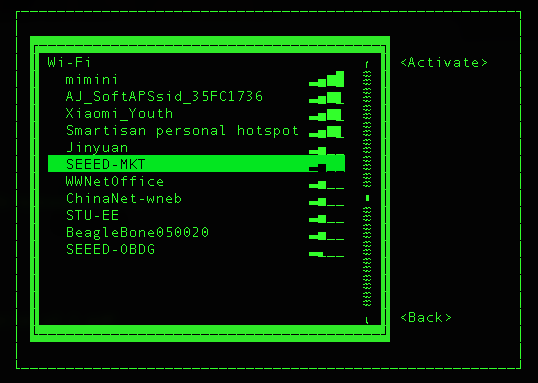
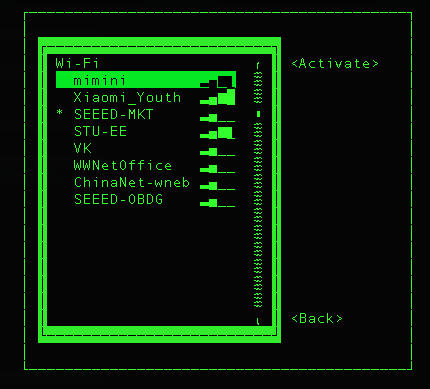
update

Changed region(s): [[0.0302, 0.0287, 0.9674, 0.9765]]

diff --git a/docs/ReSpeaker_Core_V2/getting_started.md b/docs/ReSpeaker_Core_V2/getting_started.md
@@ -19,47 +19,45 @@ This guide will show you how to get started with ReSpeaker Core V2.
 Similar to Raspberry, ReSpeaker Core V2 needs you to install our image to an SD card to get it up and running. Steps for installing our image:
 
 
-1. Download our latest image zip file `respeaker-v2-stretch-xxxxxxxx.7z` at [百度云盘](https://pan.baidu.com/s/1c2piKW4) or [Google Drive](https://drive.google.com/open?id=0B7R2TH-ioqAKQjBfZGp0M3VaVjQ)
+1. Download our latest image zip files: `respeaker-debian-9-lxqt-sd-********-4gb.img.xz` or `respeaker-debian-9-iot-sd-********-4gb.img.xz` at [百度云盘](https://pan.baidu.com/s/1c2piKW4) or [Google Drive](https://drive.google.com/open?id=0B7R2TH-ioqAKQjBfZGp0M3VaVjQ). The `lxqt` version comes with Debian desktop and the `iot` version does not. If you are new to ReSpeaker Core V2, `lxqt` version is recommended.
 
-2. Unzip the `.7z` file to get a `.img` file. You can unzip `.7z` file with the following tools for different platforms:
-    - Windows: [7-Zip](http://www.7-zip.org/)
-    - Linux: [7za](http://www.thegeekstuff.com/2010/04/7z-7zip-7za-file-compression)
-    - Mac: [The
-     Unarchiver](https://theunarchiver.com/)
+2. Burn the `*.img.xz` file directly to SD card with [Etcher](https://etcher.io/), or unzip the `*.img.xz` file to a `*.img` file, then burn it to SD card with other image writing tools.
 
-3. Burn the `.img` file to SD card with [Etcher](https://etcher.io/) or other image writing tools.
+3. After burning SD card, put the SD card in ReSpeaker Core V2. Power the board at `PWR_IN` micro usb port，note that **Try not to hot-plugging SD card**.
 
-4. After burning SD card, put the SD card in ReSpeaker Core V2. Power the board at `PWR_IN` micro usb port，note that **Try not to hot swap SD card**.
+4. When powering, ReSpeaker Core V2 boot from the SD card(not eMMC), and you can see USER1 and USER2 LEDs light up. USER1 is typically configured at boot to blink in a heartbeat pattern and USER2 is typically configured at boot to light during SD card accesses. Now, you should go to the next part: [Serial Console](#serial-console).
 
-5. When powering, USER1 and USER2 LEDs light up. USER1 is typically configured at boot to blink in a heartbeat pattern and USER2 is typically configured at boot to light during SD (microSD) card accesses
+5. If you want to flash the image to eMMC, please see [here](#flash-emmc).
 
 ![](/img/hardware.jpg)
 
 
 ### Serial Console
 
-You can connect to the Serial Console with Uart port on board:
+You can connect to the Serial Console with Uart port on board (if you can't find the Uart port, please see the picture above):
 
-1. Connect Uart port and your PC/Max with an USB To TTL Adapter. Note that the voltage of RX/TX are 3.3V.
+1. Connect Uart port and your PC/Mac with an [USB To TTL Adapter](https://www.seeedstudio.com/USB-To-Uart-5V%26amp%3B3V3-p-1832.html). Note that the voltage of RX/TX are 3.3V. If you don't have an USB To TTL Adapter, please see **step 4**.
 
 2. Use the following Serial debugging tools with 115200 baud:
     - Windows: usb [PUTTY](https://www.chiark.greenend.org.uk/~sgtatham/putty/latest.html), select `Serial` protocol, fill in the correct COM port of ReSpeaker Core V2, 115200 baud, 8Bits, Parity None, Stop Bits 1, Flow Control None
     - Linux: Depend on your USB To TTL Adapter, it could be `screen /dev/ttyACM0(,1, and so on) 115200` or `screen /dev/ttyUSB0(,1, and so on) 115200`
     - Mac: Depend on your USB To TTL Adapter, it could be `screen /dev/cu.usbserial1412(,1422, and so on) 115200` or `screen /dev/cu.usbmodem1412(,1422, and so on) 115200`
-    
-If you do not have a USB to TTL Adapter, you may also use an Arduino. If using an Arduino, connect one end of a jumper wire to the 'RESET' pin on the Arduino and the other end to the 'GND' pin on the Arduino. This will bypass your Arduino's ATMEGA MCU and turn your Arduino into a USB to TTL adapter, see video tutorial here https://www.youtube.com/watch?v=qqSLwK1DP8Q. Now connect the GND pin on the Arduino to the GND pin on the Uart port of the Respeaker. Connect the Rx pin on the Arduino to the Rx pin on the Uart port of the Respeaker. Connect the Tx pin on the Arduino to the Tx pin on the Uart port of the Respeaker. And lastly, connect the Arduino to your PC/Mac via the Arduino's USB cable. Now check that your Mac or Linux PC finds your Arduino by typing this command:
 
+3. The login user name is `respeaker`, and password is `respeaker` too.
+![v2_login.png](/img/v2_login.png)
+
+4. If you do not have a USB to TTL Adapter, you may also use an Arduino. If using an Arduino, connect one end of a jumper wire to the *RESET* pin on the Arduino and the other end to the *GND* pin on the Arduino. This will bypass your Arduino's ATMEGA MCU and turn your Arduino into a USB to TTL adapter, see video tutorial [here](https://www.youtube.com/watch?v=qqSLwK1DP8Q). Now connect the *GND* pin on the Arduino to the *GND* pin on the *Uart port* of the Respeaker. Connect the *Rx* pin on the Arduino to the *Rx* pin on the Uart port of the Respeaker. Connect the *Tx* pin on the Arduino to the *Tx* pin on the Uart port of the Respeaker. And lastly, connect the Arduino to your PC/Mac via the Arduino's USB cable. Now check that your Mac or Linux PC finds your Arduino by typing this command:
+```
 ls /dev/cu.usb* (Mac)
 ls /dev/ttyACM* (Linux)
-
+```
 You should get back something like:
-
+```
 /dev/cu.usbmodem14XX where XX will vary depending on which USB port you used (on Mac)
 /dev/ttyACMX where X will vary depending on which USB port you used  (on Linux)
-
+```
 Now use this port with the commands above to connect to your Respeaker over this serial connection. And note this is a one time procedure as you'll next setup your Respeaker for Wi-Fi connectivity and then connect via ssh or VNC going forward.
 
-3. The default user is `root`, you can switch to `respeaker` user with `su respeaker` command.
 
 ### Network Setting Up
 
@@ -67,13 +65,13 @@ Now use this port with the commands above to connect to your Respeaker over this
 
 Configure network with **Network Manager** tool:
 ```
-root@v2:/home/respeaker# nmtui              # respeaker user needs sudo
+respeaker@v2:~$ sudo nmtui              # respeaker user needs sudo
 ```
 Then you could see a config page like this, select `Activate a connection` and press `Enter`.
 
 ![](/img/nmtui1-1.png)
 
-Select your Wi-Fi for ReSpeaker V2, press `Enter` and type your Wi-Fi password and `Enter` again. When you see `succeeded`, it means that the board has connected to Wi-Fi already. Tap `Esc` twice to leave the config page.
+Select your Wi-Fi for ReSpeaker V2, press `Enter` and type your Wi-Fi password and `Enter` again. When you see a `*` mark, it means that the board has connected to Wi-Fi already. Tap `Esc` twice to leave the config page.
 
 ![](/img/nmtui1-2.png)
 
@@ -85,7 +83,7 @@ root@v2:/home/respeaker# ip address
     link/loopback 00:00:00:00:00:00 brd 00:00:00:00:00:00
     inet 127.0.0.1/8 scope host lo
        valid_lft forever preferred_lft forever
-    inet6 ::1/128 scope host 
+    inet6 ::1/128 scope host
        valid_lft forever preferred_lft forever
 2: sit0@NONE: <NOARP> mtu 1480 qdisc noop state DOWN group default qlen 1
     link/sit 0.0.0.0 brd 0.0.0.0
@@ -93,9 +91,9 @@ root@v2:/home/respeaker# ip address
     link/ether e0:76:d0:37:38:6d brd ff:ff:ff:ff:ff:ff
     inet 192.168.7.108/24 brd 192.168.7.255 scope global dynamic wlan0
        valid_lft 604332sec preferred_lft 604332sec
-    inet6 2601:647:4680:ebf0:ec0a:5965:e710:f329/64 scope global noprefixroute dynamic 
+    inet6 2601:647:4680:ebf0:ec0a:5965:e710:f329/64 scope global noprefixroute dynamic
        valid_lft 345598sec preferred_lft 345598sec
-    inet6 fe80::64de:cac8:65ef:aac8/64 scope link 
+    inet6 fe80::64de:cac8:65ef:aac8/64 scope link
        valid_lft forever preferred_lft forever
 
 ```
@@ -162,28 +160,6 @@ cp pulse/client.conf ~/.config/pulse/
 pulseaudio -k && pulseaudio -D                  # restart pulseaudio, don't run it as root user
 ```
 
-<!-- #### 方式2
-修复一个PulseAudio配置问题，修改`/etc/pulse/default.pa`，禁用`module-udev-detect`和`module-detect`，静态加载`alsa sink`和`source`，修改之后用respeaker用户重启pulseaudio，运行`pulseaudio -k || pulseaudio -D`
-```
-### Load audio drivers statically                                                                                                       
-### (it's probably better to not load these drivers manually, but instead
-### use module-udev-detect -- see below -- for doing this automatically)
-load-module module-alsa-sink device=hw:0,2   
-load-module module-alsa-source device=hw:0,0            
-#load-module module-oss device="/dev/dsp" sink_name=output source_name=input  
-#load-module module-oss-mmap device="/dev/dsp" sink_name=output source_name=input
-#load-module module-null-sink           
-#load-module module-pipe-sink           
-
-### Automatically load driver modules depending on the hardware available      
-#.ifexists module-udev-detect.so        
-#load-module module-udev-detect   
-#.else                  
-### Use the static hardware detection module (for systems that lack udev support)    
-#load-module module-detect    
-#.endif
-``` -->
-
 ### Virtual Environment
 
 ```
@@ -225,51 +201,14 @@ arecord -Dhw:0,0 -f S16_LE -r 16000 -c 8 hello.wav
 
 ### Flash eMMC
 
-There is another way to boot ReSpeaker Core V2, without SD card. You could  directly flash image files to eMMC with your PC or Mac:
+There is another way to boot ReSpeaker Core V2, without SD card. You could directly flash image files to eMMC with your PC or Mac:
 
-#### For Windows Users
+1. Download our latest image zip file `respeaker-debian-9-iot-flasher-********-4gb.img.xz` or `respeaker-debian-9-lxqt-flasher-********-4gb.img.xz` at [百度云盘](https://pan.baidu.com/s/1c2piKW4) or [Google Drive](https://drive.google.com/open?id=0B7R2TH-ioqAKQjBfZGp0M3VaVjQ). The `lxqt` version comes with Debian desktop and the `iot` version does not. And the `flasher` version is for flashing eMMC, and the `sd` version is for booting from SD card.
 
-1. Download from Github:
-```
-git clone https://github.com/respeaker/rkbin.git
-```
+2. Burn the `*.img.xz` file directly to SD card with [Etcher](https://etcher.io/), or unzip the `*.img.xz` file to a `*.img` file, then burn it to SD card with other image writing tools.
 
-2. Download from [百度云盘](https://pan.baidu.com/s/1c2piKW4) or [Google Drive](https://drive.google.com/open?id=0B7R2TH-ioqAKQjBfZGp0M3VaVjQ): `boot.img` `linaro-rootfs.img`  `u-boot/uboot.img` `AndroidTool_Release_v2.31.zip` `DriverAssitant_v4.4.zip`
+3. After burning SD card, put the SD card in ReSpeaker Core V2. Power the board at `PWR_IN` micro usb port，note that **Try not to hot-plugging SD card**.
 
-3. Unzip `DriverAssitant_v4.4.zip` and install `DriverInstall`
+4. When powering, ReSpeaker Core V2 **starts to flash eMMC**. And you can see USER1 and USER2 LEDs **blink alternately**. It will take about 10mins. When the LEDs turn off, you can power off the board, pull out the SD card and power again. If the LEDs light up, that means the image is flashed to eMMC already.
 
-4. Unzip `AndroidTool_Release_v2.31.zip` and run `AndroidTool`. Configure address, name and file path as the following picture:
-![](/img/emmc-1.png)
-
-5. Press the `UPDATE` button on ReSpeaker Core V2 and connect its `OTG` port to your PC.
-
-6. Click `执行` to flash emmc, it takes about 10min. When it finish, reboot ReSpeaker Core V2 and that is ok.
-![](/img/emmc-2.png)
-
-
-#### For Linux User
-
-1. Download from Github:
-```
-git clone https://github.com/respeaker/rkbin.git
-cd rkbin
-```
-
-2. Download from [百度云盘](https://pan.baidu.com/s/1c2piKW4) or [Google Drive](https://drive.google.com/open?id=0B7R2TH-ioqAKQjBfZGp0M3VaVjQ): `boot.img` `linaro-rootfs.img`  `u-boot/uboot.img`
-
-3. Press the `UPDATE` button on ReSpeaker Core V2 and connect its `OTG` port to your PC.
-
-4. run flash-emmc commands:
-```
-sudo ./tools/upgrade_tool ul rk32/rk322x_loader_v1.04.232.bin
-sudo ./tools/upgrade_tool di -p rk32/rk3229_parameter
-sudo ./tools/upgrade_tool wl 0x2000 uboot.img
-sudo ./tools/upgrade_tool wl 0x4000 rk32/trust.img
-sudo ./tools/upgrade_tool wl 0x6000 boot.img
-sudo ./tools/upgrade_tool wl 0x3e000 linaro-rootfs.img
-sudo ./tools/upgrade_tool rd
-```
-
-
-#### For Mac User
-You need to use a Windows or Linux virtual machine to achieve this.
+5. Also you can check image version with this command: `cat /etc/issue.net`.
